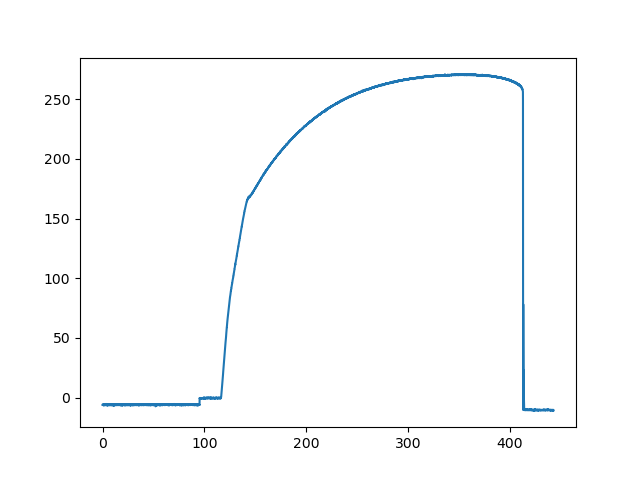
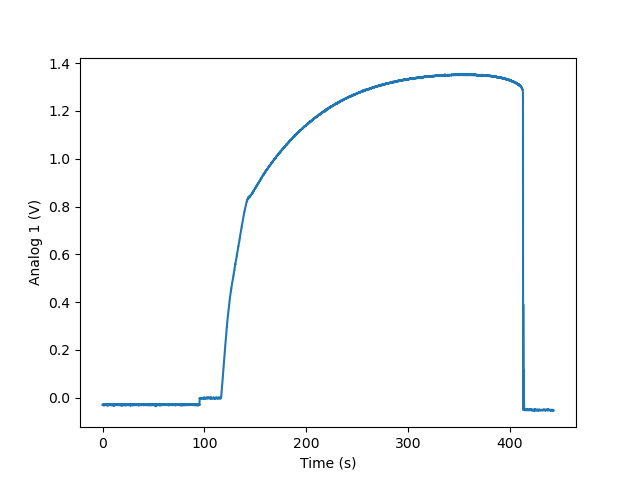
output second gragh

diff --git a/app/templates/upload.html b/app/templates/upload.html
@@ -11,14 +11,21 @@
     </select>
     <label for="area">Area (mm²):</label>
     <input type="text" name="area">
-    <input type="file" name="file">
-    <input type="submit" value="Upload">
+
     <label for="length">Length (mm):</label>
     <input type="text" name="length">
-    <label for="Load_0_correction">Load_0_correction:</label>
-    <input type="text" name="Load_0_correction">
-    <label for="Distortion_0 "> Distortion_0:</label>
-    <input type="text" name="Distortion_0">
-    <label for="Distortion_Gauge_collection_1 "> Distortion_Gauge_collection_1:</label>
-    <input type="text" name="Distortion_Gauge_collection_1">
+
+    <label for="load0">load0:</label>
+    <input type="text" name="load0">
+
+    
+    
+    <label for="distortion0 "> distortion0</label>
+    <input type="text" name="distortion0">
+    <label for="distortiongaugecollection1 ">distortiongaugecollection1:</label>
+    <input type="text" name="distortiongaugecollection1">
+
+    <input type="file" name="file">
+    <input type="submit" value="Upload">
+    
 </form>

diff --git a/app/templates/result.html b/app/templates/result.html
@@ -4,9 +4,16 @@
     <title>Analysis Result</title>
 </head>
 <body>
-    <h1>Analysis Result</h1>
-    <img src="{{ image_path }}" alt="Analysis Result">
+    <h1>Time-Analog1</h1>
+    <img src="{{ image_path }}" alt="Time-Analog1">
+    <br>
+    
+
+    <h1>Time-Analog2</h1>
+    <img src="{{ image_path_2 }}" alt="image_path_2 ">
     <br>
     <a href="/">Upload another file</a>
+
+
 </body>
 </html>

diff --git a/app/routes.py b/app/routes.py
@@ -17,6 +17,9 @@ def upload_file():
 def analyze_file():
     material = request.form['material']
     area = float(request.form['area'])
+    load0 = float(request.form['load0'])
+    distortion0= float(request.form['distortion0'])
+    distortiongaugecollection1 = float(request.form['distortiongaugecollection1'])
     file = request.files['file']
     filepath = os.path.join(app.config['UPLOAD_FOLDER'], file.filename)
     file.save(filepath)
@@ -27,9 +30,27 @@ def analyze_file():
     data['Strain_percentage']=data['Analog2']/data['Analog2'].median()
     data['Stroke_mm'] = data['Analog3']*6
     data['time_seconds'] =[i * 0.05 for i in range(len(data))]
-    plt.plot(data['time_seconds'], data['Load_N'])
+    
+    plt.xlabel('Time (s)')
+    plt.ylabel('Analog 1 (V)')
+    plt.plot(data['time_seconds'], data['Analog1'])
+    plt.show()
     image_filename = 'result.png'
     image_path = os.path.join(app.config['UPLOAD_FOLDER'], image_filename)
     image_url = url_for('static', filename=f'images/{image_filename}')
     plt.savefig(image_path)
-    return render_template('result.html', image_path=image_url)
+    
+    plt.clf()
+    
+    plt.xlabel('Time (s)')
+    plt.ylabel('Analog 2 (V)')
+    plt.plot(data['time_seconds'], data['Analog2'])
+    plt.show()
+    image_filename_2 = 'result2.png'
+    image_path_2 = os.path.join(app.config['UPLOAD_FOLDER'], image_filename_2)
+    image_url_2 = url_for('static', filename=f'images/{image_filename_2}')
+    plt.savefig(image_path_2)
+    
+    
+    
+    return render_template('result.html', image_path=image_url, image_path_2=image_url_2)
